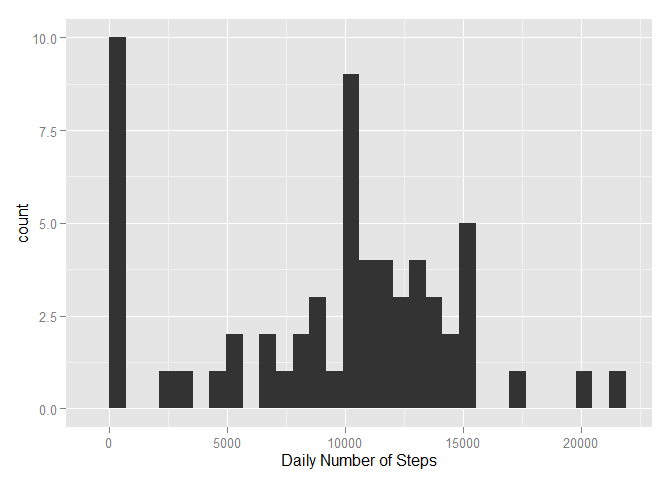
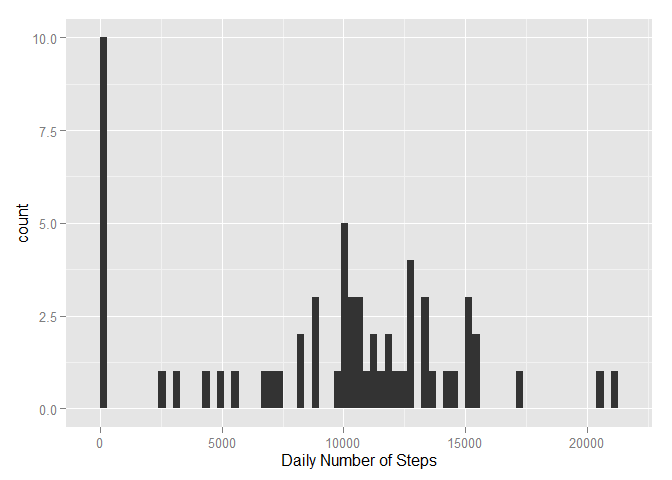
Final commit

diff --git a/RepData_PeerAssessment1.html b/RepData_PeerAssessment1.html
@@ -93,9 +93,8 @@ dailysteps &lt;- aggregate(activity$steps, by = list(activity$date), sum, na.rm=
 names(dailysteps) &lt;- c(&quot;Date&quot;, &quot;steps&quot;)
 
 #Make a histogram of the total number of steps taken each day
-qplot(steps, data = dailysteps, geom=&quot;histogram&quot;, xlab = &quot;Daily Number of Steps&quot;)</code></pre>
-<pre><code>## stat_bin: binwidth defaulted to range/30. Use 'binwidth = x' to adjust this.</code></pre>
[1 lines of base64/hex data omitted]
+qplot(steps, data = dailysteps, geom=&quot;histogram&quot;, xlab = &quot;Daily Number of Steps&quot;, binwidth = 300)</code></pre>
[1 lines of base64/hex data omitted]
 <pre class="r"><code>#Calculate and report the mean and median of the total number of steps taken per day
 mean.steps &lt;- mean(dailysteps$steps) 
 median.steps &lt;- median(dailysteps$steps)</code></pre>
@@ -149,13 +148,12 @@ activity &lt;- rbind(activity, nstps)
 dailysteps2 &lt;- aggregate(activity$steps, by = list(activity$date), sum, na.rm=TRUE)
 names(dailysteps2) &lt;- c(&quot;Date&quot;, &quot;steps&quot;)
 
-qplot(steps, data = dailysteps2, geom=&quot;histogram&quot;, xlab = &quot;Daily Number of Steps&quot;)</code></pre>
-<pre><code>## stat_bin: binwidth defaulted to range/30. Use 'binwidth = x' to adjust this.</code></pre>
[1 lines of base64/hex data omitted]
+qplot(steps, data = dailysteps2, geom=&quot;histogram&quot;, xlab = &quot;Daily Number of Steps&quot;, binwidth = 300)</code></pre>
[1 lines of base64/hex data omitted]
 <pre class="r"><code>mean.steps2 &lt;- mean(dailysteps2$steps) # 
 median.steps2 &lt;- median(dailysteps2$steps)</code></pre>
 <p>There are 2304 intervals with NA</p>
-<p>THe new mean number of steps is 9504 this is close to the mean from the data with NAs of 9354. THe new median number of steps is 10395 this is the same as the median from the data with NAs of 10395. There is little impact to the estimated number of steps a day from using the median for the time interval. I had previously used the mean but this introduced a sizeable difference.</p>
+<p>THe new mean number of steps is 9504 this is close to the mean from the data with NAs of 9354. THe new median number of steps is 10395 this is the same as the median from the data with NAs of 10395. There is little impact to the estimated number of steps a day from using the median for the time interval to replace the missing data. I had previously used the mean but this introduced a sizeable difference.</p>
 </div>
 <div id="are-there-differences-in-activity-patterns-between-weekdays-and-weekends" class="section level1">
 <h1>Are there differences in activity patterns between weekdays and weekends?</h1>
@@ -177,8 +175,9 @@ intsteps2$mean.steps &lt;- round(intsteps2$mean.steps)
 intsteps2$median.steps &lt;- round(intsteps2$median.steps)
 
 
-ggplot(intsteps2, aes(x = interval, y = mean.steps))  + geom_line() + facet_grid(weekday~.)</code></pre>
[1 lines of base64/hex data omitted]
+ggplot(intsteps2, aes(x = interval, y = mean.steps)) + ylab(&quot;Number of Steps&quot;) + geom_line() + facet_grid(weekday~.)</code></pre>
[1 lines of base64/hex data omitted]
+<p>As can be seen from the plots above the user appears to start walking around later at weekends (maybe they sleep later). Once they are awake they tend to take more steps and to be walking around (awake?) later in the day.</p>
 </div>
 
 

diff --git a/RepData_PeerAssessment1.md b/RepData_PeerAssessment1.md
@@ -60,11 +60,7 @@ dailysteps <- aggregate(activity$steps, by = list(activity$date), sum, na.rm=TRU
 names(dailysteps) <- c("Date", "steps")
 
 #Make a histogram of the total number of steps taken each day
-qplot(steps, data = dailysteps, geom="histogram", xlab = "Daily Number of Steps")
-```
-
-```
-## stat_bin: binwidth defaulted to range/30. Use 'binwidth = x' to adjust this.
+qplot(steps, data = dailysteps, geom="histogram", xlab = "Daily Number of Steps", binwidth = 300)
 ```
 
 ![](RepData_PeerAssessment1_files/figure-html/unnamed-chunk-2-1.png) 
@@ -141,11 +137,7 @@ activity <- rbind(activity, nstps)
 dailysteps2 <- aggregate(activity$steps, by = list(activity$date), sum, na.rm=TRUE)
 names(dailysteps2) <- c("Date", "steps")
 
-qplot(steps, data = dailysteps2, geom="histogram", xlab = "Daily Number of Steps")
-```
-
-```
-## stat_bin: binwidth defaulted to range/30. Use 'binwidth = x' to adjust this.
+qplot(steps, data = dailysteps2, geom="histogram", xlab = "Daily Number of Steps", binwidth = 300)
 ```
 
 ![](RepData_PeerAssessment1_files/figure-html/unnamed-chunk-4-1.png) 
@@ -157,7 +149,8 @@ median.steps2 <- median(dailysteps2$steps)
 
 There are 2304 intervals with NA
 
-THe new mean number of steps is 9504 this is close to the mean from the data with NAs of 9354.  THe new median number of steps is 10395 this is the same as the median from the data with NAs of 10395. There is little impact to the estimated number of steps a day from using the median for the time interval.  I had previously used the mean but this introduced a sizeable difference.
+THe new mean number of steps is 9504 this is close to the mean from the data with NAs of 9354.  THe new median number of steps is 10395 this is the same as the median from the data with NAs of 10395.  There is little impact to the estimated number of steps a day from using the median for the time interval to replace the missing data.  I had previously used the mean but this introduced a sizeable difference.
+
 
 #Are there differences in activity patterns between weekdays and weekends?
 
@@ -184,9 +177,9 @@ intsteps2$mean.steps <- round(intsteps2$mean.steps)
 intsteps2$median.steps <- round(intsteps2$median.steps)
 
 
-ggplot(intsteps2, aes(x = interval, y = mean.steps))  + geom_line() + facet_grid(weekday~.)
+ggplot(intsteps2, aes(x = interval, y = mean.steps)) + ylab("Number of Steps") + geom_line() + facet_grid(weekday~.)
 ```
 
 ![](RepData_PeerAssessment1_files/figure-html/unnamed-chunk-5-1.png) 
 
-
+As can be seen from the plots above the user appears to start walking around later at weekends (maybe they sleep later). Once they are awake they tend to take more steps and to be walking around (awake?) later in the day.
